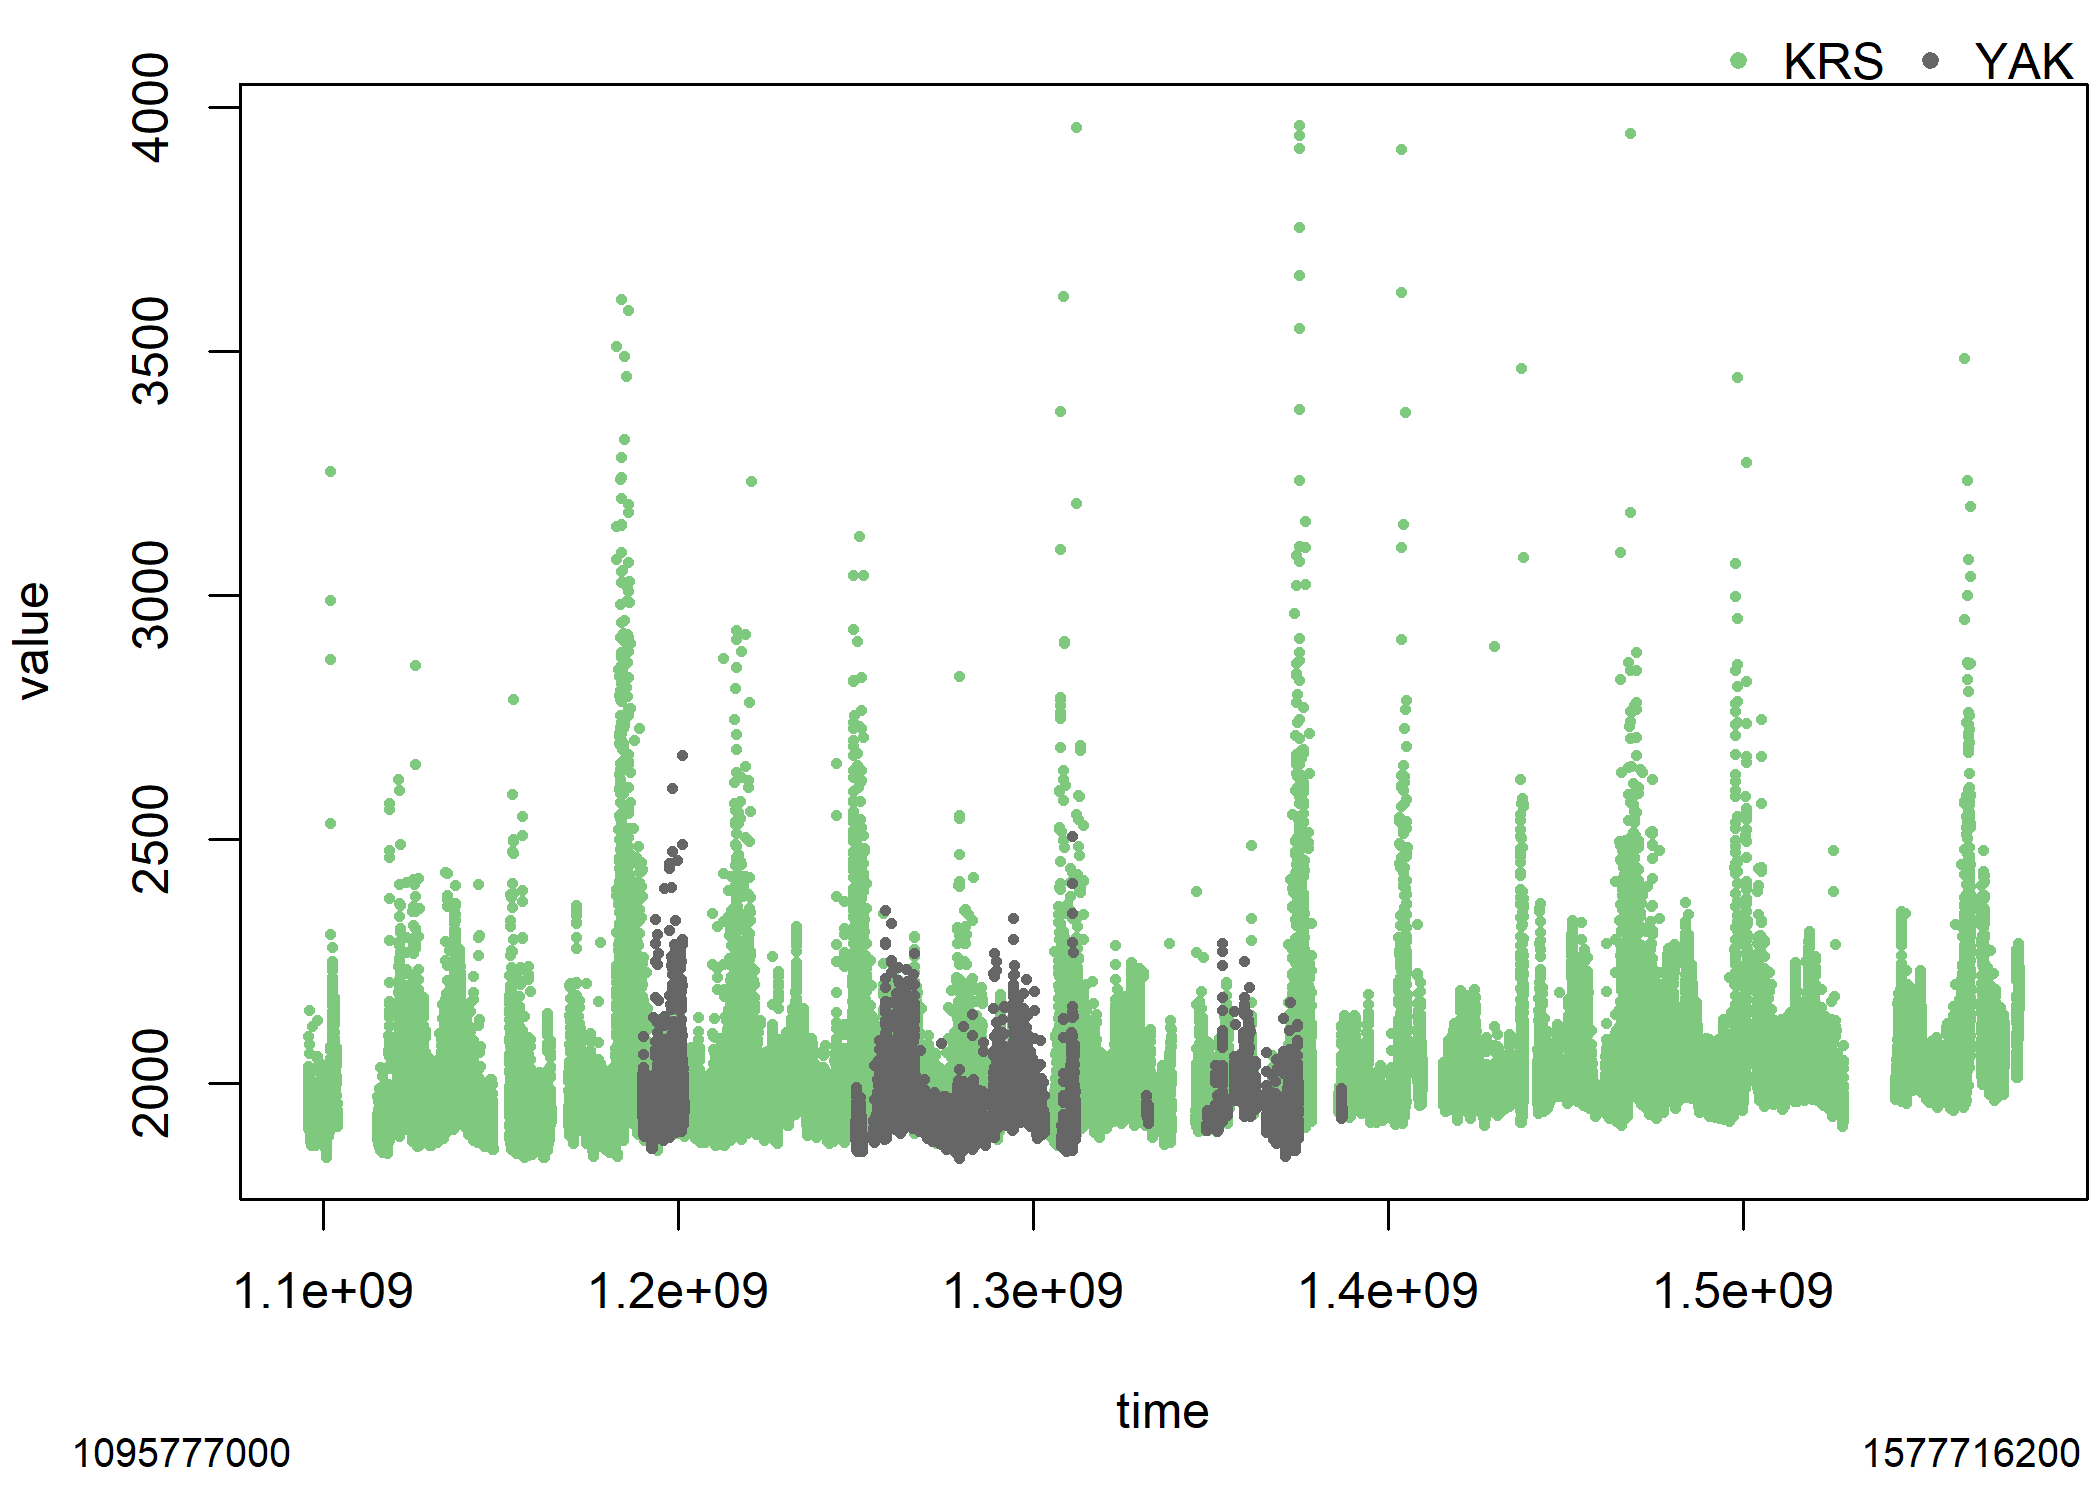
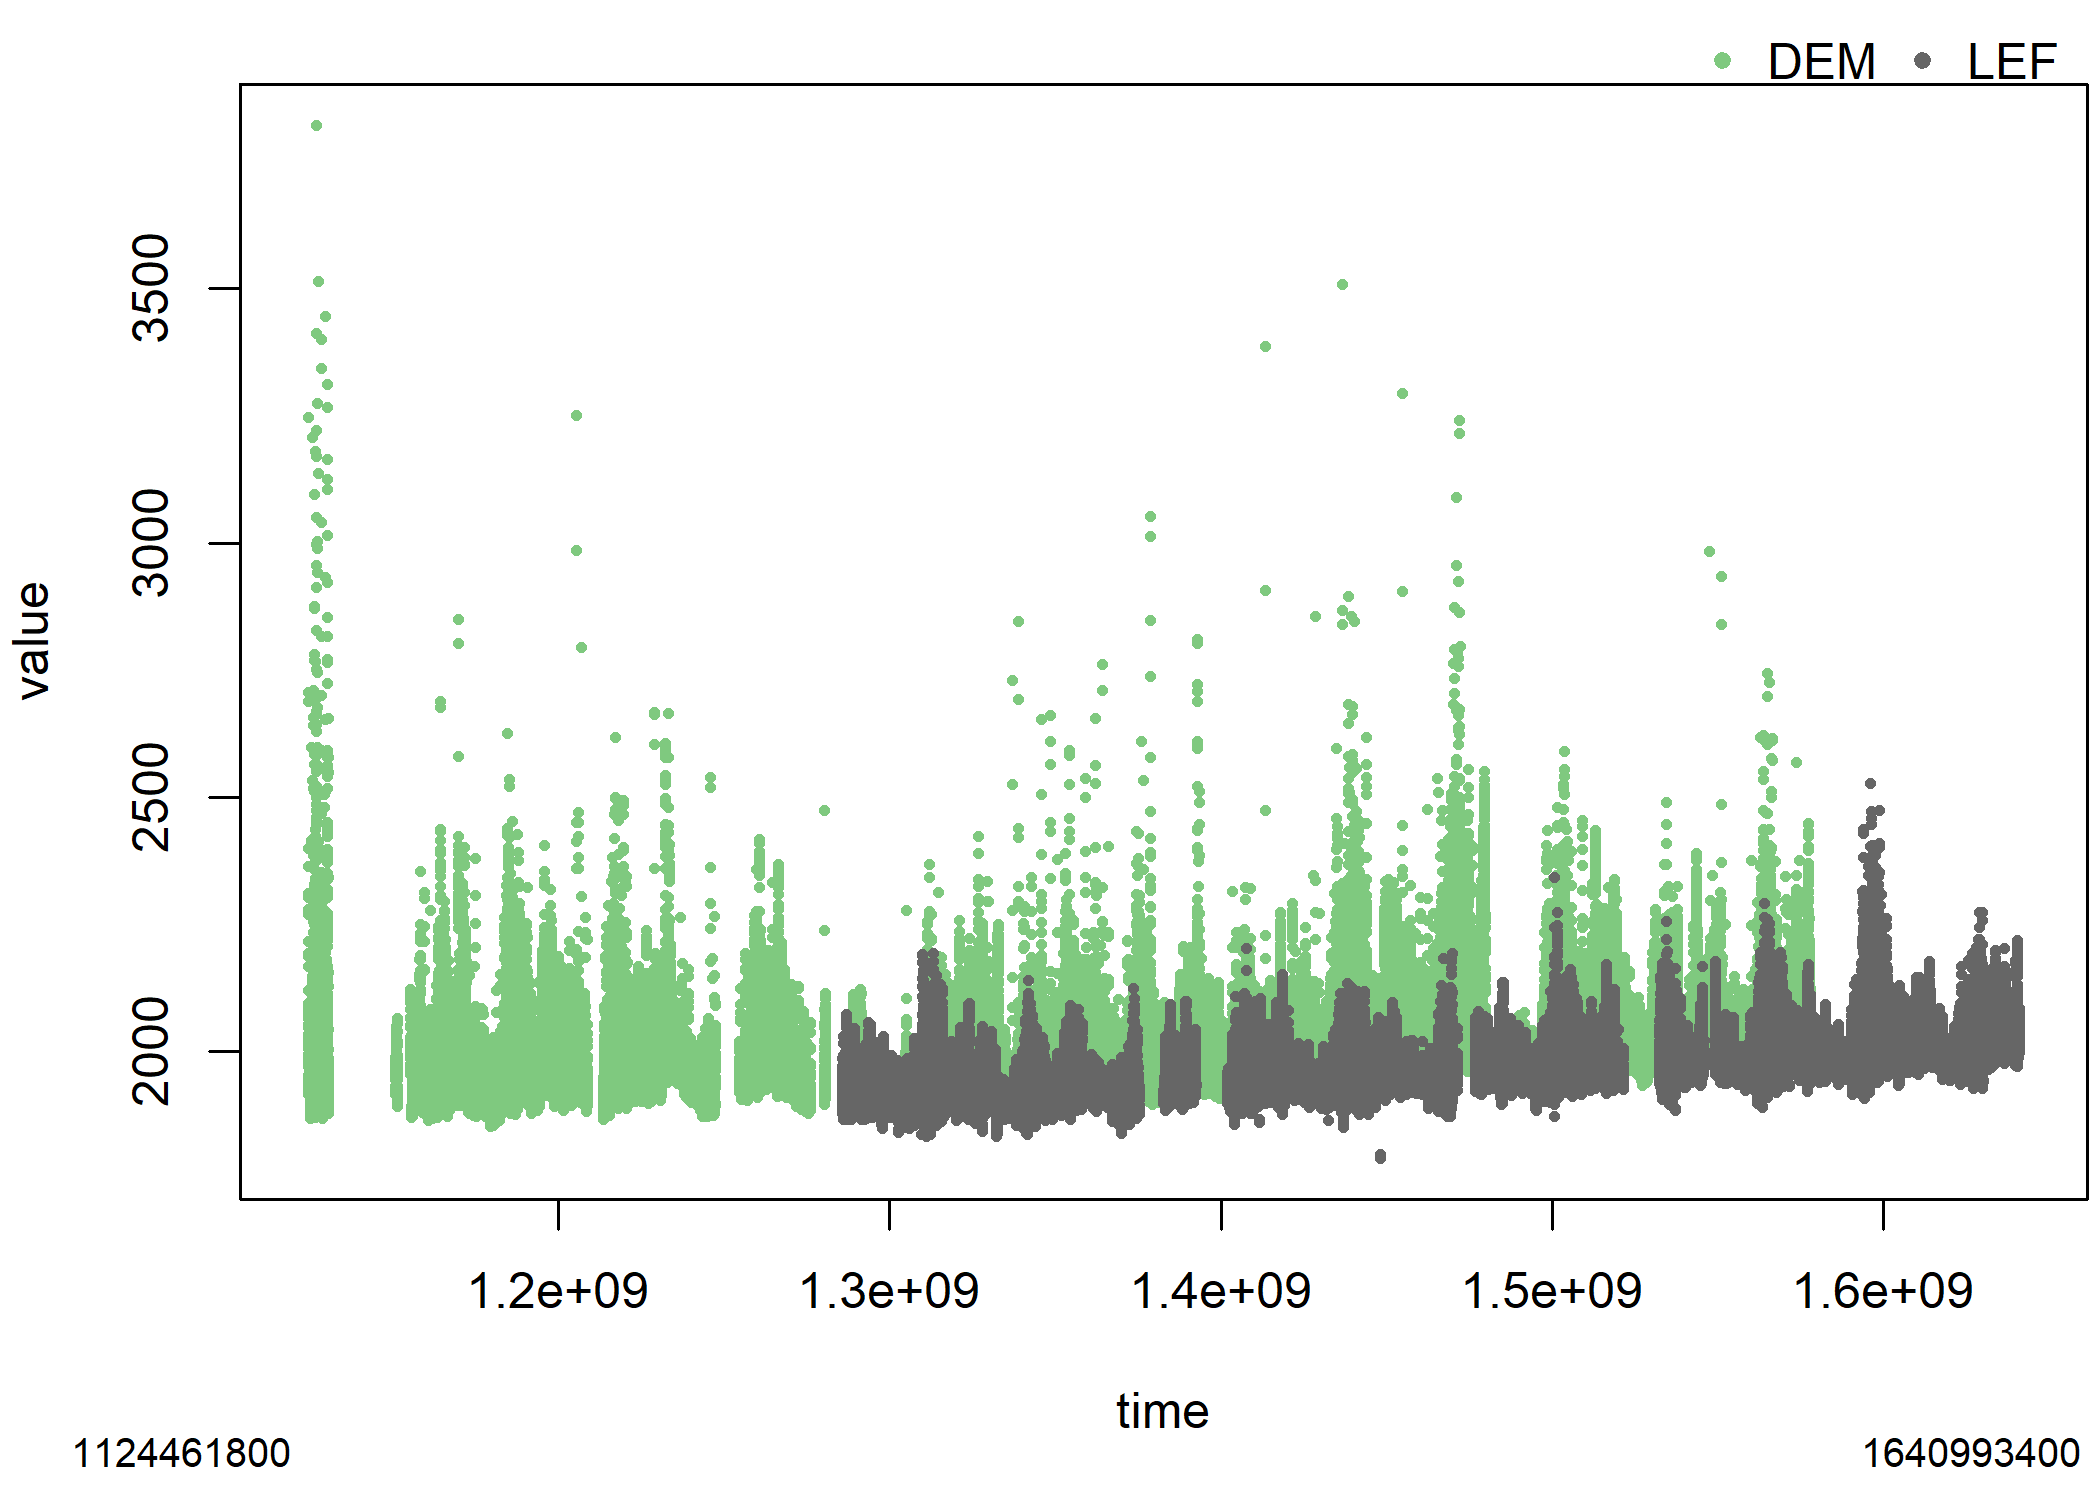
web page

diff --git a/README.md b/README.md
@@ -1,17 +1,12 @@
 R Tools for Obspack, Footprints and Receptors (rtorf)
 ================
 
-<figure>
-<img
-src="https://img.shields.io/github/commit-activity/y/noaa-gml/rtorf"
-alt="GitHub commit activity" />
-<figcaption aria-hidden="true">GitHub commit activity</figcaption>
-</figure>
+<!-- badges: start -->
 
-[![R build
-status](https://github.com/ibarraespinosa/rtorf/workflows/draft-pdf/badge.svg)](https://github.com/ibarraespinosa/rtorf/actions)
-
-[![R-CMD-check](https://github.com/noaa-gml/torf/actions/workflows/R-CMD-check.yaml/badge.svg)](https://github.com/noaa-gml/torf/actions/workflows/R-CMD-check.yaml)
+![GitHub commit
+activity](https://img.shields.io/github/commit-activity/y/noaa-gml/rtorf)
+[![R-CMD-check](https://github.com/noaa-gml/rtorf/actions/workflows/R-CMD-check.yaml/badge.svg)](https://github.com/noaa-gml/rtorf/actions/workflows/R-CMD-check.yaml)
+<!-- badges: end -->
 
 [NOAA Obspack](https://gml.noaa.gov/ccgg/obspack/) is a collection of
 green house gases observations
@@ -64,18 +59,19 @@ index <- obs_summary(obs = obs, categories = cate)
 ```
 
     ## Number of files of index: 429
-    ##               sector   N
-    ##  1:     aircraft-pfp  40
-    ##  2:  aircraft-insitu  15
-    ##  3:    surface-flask 106
-    ##  4:   surface-insitu 174
-    ##  5:   aircraft-flask   4
-    ##  6:          aircore   1
-    ##  7:      surface-pfp  33
-    ##  8:     tower-insitu  51
-    ##  9:  shipboard-flask   4
-    ## 10: shipboard-insitu   1
-    ## 11:    Total sectors 429
+    ##               sector     N
+    ##               <char> <int>
+    ##  1:     aircraft-pfp    40
+    ##  2:  aircraft-insitu    15
+    ##  3:    surface-flask   106
+    ##  4:   surface-insitu   174
+    ##  5:   aircraft-flask     4
+    ##  6:          aircore     1
+    ##  7:      surface-pfp    33
+    ##  8:     tower-insitu    51
+    ##  9:  shipboard-flask     4
+    ## 10: shipboard-insitu     1
+    ## 11:    Total sectors   429
     ## Detected 190 files with agl
     ## Detected 239 files without agl
 
@@ -143,7 +139,7 @@ plot(sdft["value"],
      main = NULL)
 ```
 
-    ## Colour gradient: jjg_ccolo_phill_omgwtf_monday_sucks, number: 4023
+    ## Colour gradient: nd_rich_Clash_02, number: 5632
 
 ``` r
 maps::map(add = T)
@@ -158,26 +154,26 @@ usites <- unique(df$site_name)[sample(seq_along(unique(df$site_name)), 2)]
 usites
 ```
 
-    ## [1] "Karasevoe" "Yakutsk"
+    ## [1] "Park Falls, Wisconsin" "Demyanskoe"
 
 ``` r
 knitr::kable(dft[site_name %in% usites])
 ```
 
-| site_name | site_latitude | site_longitude | site_country | site_code |     value |       time | time_decimal | latitude | longitude | stat   | timeUTC             |
-|:----------|--------------:|---------------:|:-------------|:----------|----------:|-----------:|-------------:|---------:|----------:|:-------|:--------------------|
-| Karasevoe |       58.2456 |        82.4244 | Russia       | KRS       | 1.848e-06 | 1095777000 |         2005 |    58.25 |     82.42 | min    | 2004-09-21 14:30:00 |
-| Karasevoe |       58.2456 |        82.4244 | Russia       | KRS       | 1.937e-06 | 1208828700 |         2008 |    58.25 |     82.42 | q1     | 2008-04-22 01:45:00 |
-| Karasevoe |       58.2456 |        82.4244 | Russia       | KRS       | 1.974e-06 | 1315166400 |         2012 |    58.25 |     82.42 | median | 2011-09-04 20:00:00 |
-| Karasevoe |       58.2456 |        82.4244 | Russia       | KRS       | 1.991e-06 | 1329570666 |         2012 |    58.25 |     82.42 | mean   | 2012-02-18 13:11:06 |
-| Karasevoe |       58.2456 |        82.4244 | Russia       | KRS       | 2.020e-06 | 1464107400 |         2016 |    58.25 |     82.42 | q3     | 2016-05-24 16:30:00 |
-| Karasevoe |       58.2456 |        82.4244 | Russia       | KRS       | 3.964e-06 | 1577716200 |         2020 |    58.25 |     82.42 | max    | 2019-12-30 14:30:00 |
-| Yakutsk   |       62.0886 |       129.3558 | Russia       | YAK       | 1.846e-06 | 1189791000 |         2008 |    62.09 |    129.36 | min    | 2007-09-14 17:30:00 |
-| Yakutsk   |       62.0886 |       129.3558 | Russia       | YAK       | 1.903e-06 | 1258813800 |         2010 |    62.09 |    129.36 | q1     | 2009-11-21 14:30:00 |
-| Yakutsk   |       62.0886 |       129.3558 | Russia       | YAK       | 1.921e-06 | 1278496800 |         2011 |    62.09 |    129.36 | median | 2010-07-07 10:00:00 |
-| Yakutsk   |       62.0886 |       129.3558 | Russia       | YAK       | 1.933e-06 | 1280083018 |         2011 |    62.09 |    129.36 | mean   | 2010-07-25 18:36:58 |
-| Yakutsk   |       62.0886 |       129.3558 | Russia       | YAK       | 1.950e-06 | 1301175000 |         2011 |    62.09 |    129.36 | q3     | 2011-03-26 21:30:00 |
-| Yakutsk   |       62.0886 |       129.3558 | Russia       | YAK       | 2.672e-06 | 1386912600 |         2014 |    62.09 |    129.36 | max    | 2013-12-13 05:30:00 |
+| site_name             | site_latitude | site_longitude | site_country  | site_code |     value |       time | time_decimal | latitude | longitude | stat   | timeUTC             |
+|:----------------------|--------------:|---------------:|:--------------|:----------|----------:|-----------:|-------------:|---------:|----------:|:-------|:--------------------|
+| Demyanskoe            |       59.7914 |        70.8711 | Russia        | DEM       | 1.853e-06 | 1124461800 |         2006 |    59.79 |     70.87 | min    | 2005-08-19 14:30:00 |
+| Demyanskoe            |       59.7914 |        70.8711 | Russia        | DEM       | 1.949e-06 | 1257992100 |         2010 |    59.79 |     70.87 | q1     | 2009-11-12 02:15:00 |
+| Demyanskoe            |       59.7914 |        70.8711 | Russia        | DEM       | 1.989e-06 | 1384389000 |         2014 |    59.79 |     70.87 | median | 2013-11-14 00:30:00 |
+| Demyanskoe            |       59.7914 |        70.8711 | Russia        | DEM       | 2.005e-06 | 1371167046 |         2013 |    59.79 |     70.87 | mean   | 2013-06-13 23:44:06 |
+| Demyanskoe            |       59.7914 |        70.8711 | Russia        | DEM       | 2.038e-06 | 1471498200 |         2017 |    59.79 |     70.87 | q3     | 2016-08-18 05:30:00 |
+| Demyanskoe            |       59.7914 |        70.8711 | Russia        | DEM       | 3.822e-06 | 1577835000 |         2020 |    59.79 |     70.87 | max    | 2019-12-31 23:30:00 |
+| Park Falls, Wisconsin |       45.9451 |       -90.2732 | United States | LEF       | 1.789e-06 | 1285633800 |         2011 |    45.95 |    -90.27 | min    | 2010-09-28 00:30:00 |
+| Park Falls, Wisconsin |       45.9451 |       -90.2732 | United States | LEF       | 1.921e-06 | 1362785400 |         2013 |    45.95 |    -90.27 | q1     | 2013-03-08 23:30:00 |
+| Park Falls, Wisconsin |       45.9451 |       -90.2732 | United States | LEF       | 1.952e-06 | 1454135400 |         2016 |    45.95 |    -90.27 | median | 2016-01-30 06:30:00 |
+| Park Falls, Wisconsin |       45.9451 |       -90.2732 | United States | LEF       | 1.957e-06 | 1460117239 |         2016 |    45.95 |    -90.27 | mean   | 2016-04-08 12:07:19 |
+| Park Falls, Wisconsin |       45.9451 |       -90.2732 | United States | LEF       | 1.987e-06 | 1562632200 |         2020 |    45.95 |    -90.27 | q3     | 2019-07-09 00:30:00 |
+| Park Falls, Wisconsin |       45.9451 |       -90.2732 | United States | LEF       | 2.527e-06 | 1640993400 |         2022 |    45.95 |    -90.27 | max    | 2021-12-31 23:30:00 |
 
 We added a function to plot the data read from ObsPack. The y-axis is
 the field `value` and the x-axis is by default `time`. The data
@@ -186,8 +182,11 @@ number of 3 sites. The argument `pal` is to define the color palette,
 used by the internally imported function `cptcity::cpt`.
 
 ``` r
-obs_plot(dt = df[site_name %in% usites], time = "time", yfactor = 1e+09, cex = 0.5,
-    verbose = FALSE)
+obs_plot(dt = df[site_name %in% usites], 
+         time = "time", 
+         yfactor = 1e9, 
+         cex = 0.5,
+         verbose = FALSE)
 ```
 
 <figure>
@@ -232,6 +231,7 @@ unique(df[, c("altitude_final", "site_elevation", "elevation",
 ```
 
     ##     altitude_final site_elevation elevation dataset_selection_tag
+    ##              <num>          <num>     <num>                <char>
     ##  1:           17.1         611.43    611.43       allvalid-17magl
     ##  2:           31.7         611.43    611.43       allvalid-32magl
     ##  3:            4.9         611.43    611.43        allvalid-5magl
@@ -245,6 +245,7 @@ unique(df[, c("altitude_final", "site_elevation", "elevation",
     ## 11:          484.0           2.00      2.00      allvalid-483magl
     ## 12:           89.1           2.00      2.00       allvalid-91magl
     ##                                                        site_name
+    ##                                                           <char>
     ##  1: Carbon in Arctic Reservoirs Vulnerability Experiment (CARVE)
     ##  2: Carbon in Arctic Reservoirs Vulnerability Experiment (CARVE)
     ##  3: Carbon in Arctic Reservoirs Vulnerability Experiment (CARVE)
@@ -274,6 +275,7 @@ dfa
 ```
 
     ##    site_code max_altitude
+    ##       <char>        <num>
     ## 1:       CRV         31.7
     ## 2:       LEF        396.0
     ## 3:       SCT        304.8
@@ -360,6 +362,7 @@ df3[, c("solar_time", "solar_time_cut")]
 ```
 
     ##                solar_time      solar_time_cut
+    ##                    <POSc>              <char>
     ##    1: 2019-12-02 14:49:12 2019-12-02 14:00:00
     ##    2: 2019-12-03 14:48:48 2019-12-03 14:00:00
     ##    3: 2019-12-04 14:48:24 2019-12-04 14:00:00
@@ -415,6 +418,7 @@ df4[,
 ```
 
     ##     site_code altitude_final max_altitude
+    ##        <char>          <num>        <num>
     ##  1:       CRV           17.1         31.7
     ##  2:       CRV           31.7         31.7
     ##  3:       CRV            4.9         31.7
